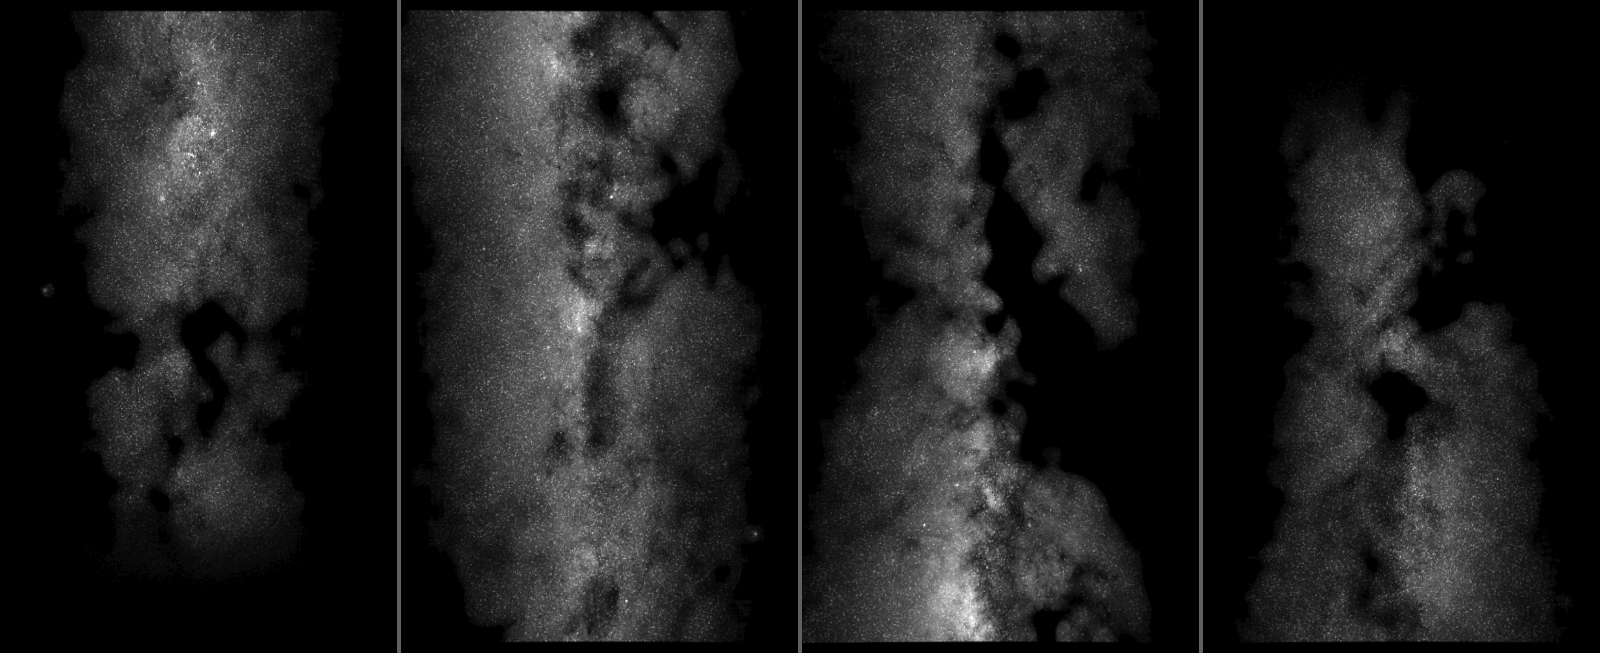
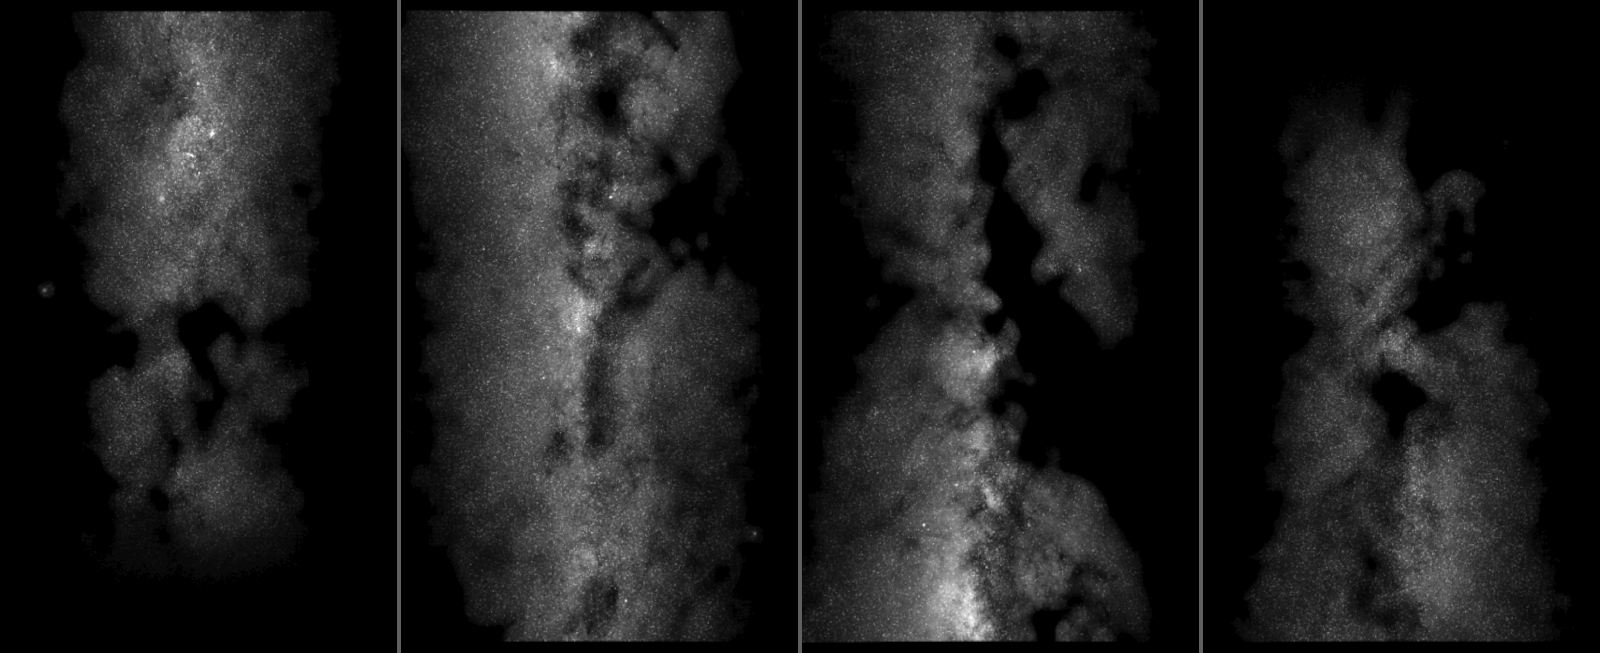
docsとプレビューをcell-size-mm 0.056の実測値に更新する

diff --git a/docs/overview.md b/docs/overview.md
@@ -59,7 +59,7 @@ flowchart TD
 | 設定 | `gaia-etch` | `gaia-ohp` |
 |---|---:|---:|
 | 描き方 `render` | holes（円形の穴） | gray（階調） |
-| 集計セル `cell-size-mm` | 0.4 mm | 0.033 mm |
+| 集計セル `cell-size-mm` | 0.4 mm | 0.056 mm |
 | 光量倍率 `flux-gain` | 0.05 | 0.4 |
 | 天の川強調 `milky-way` | no | yes |
 | 端のフェード `fade.width-deg` | なし | 15度 |
